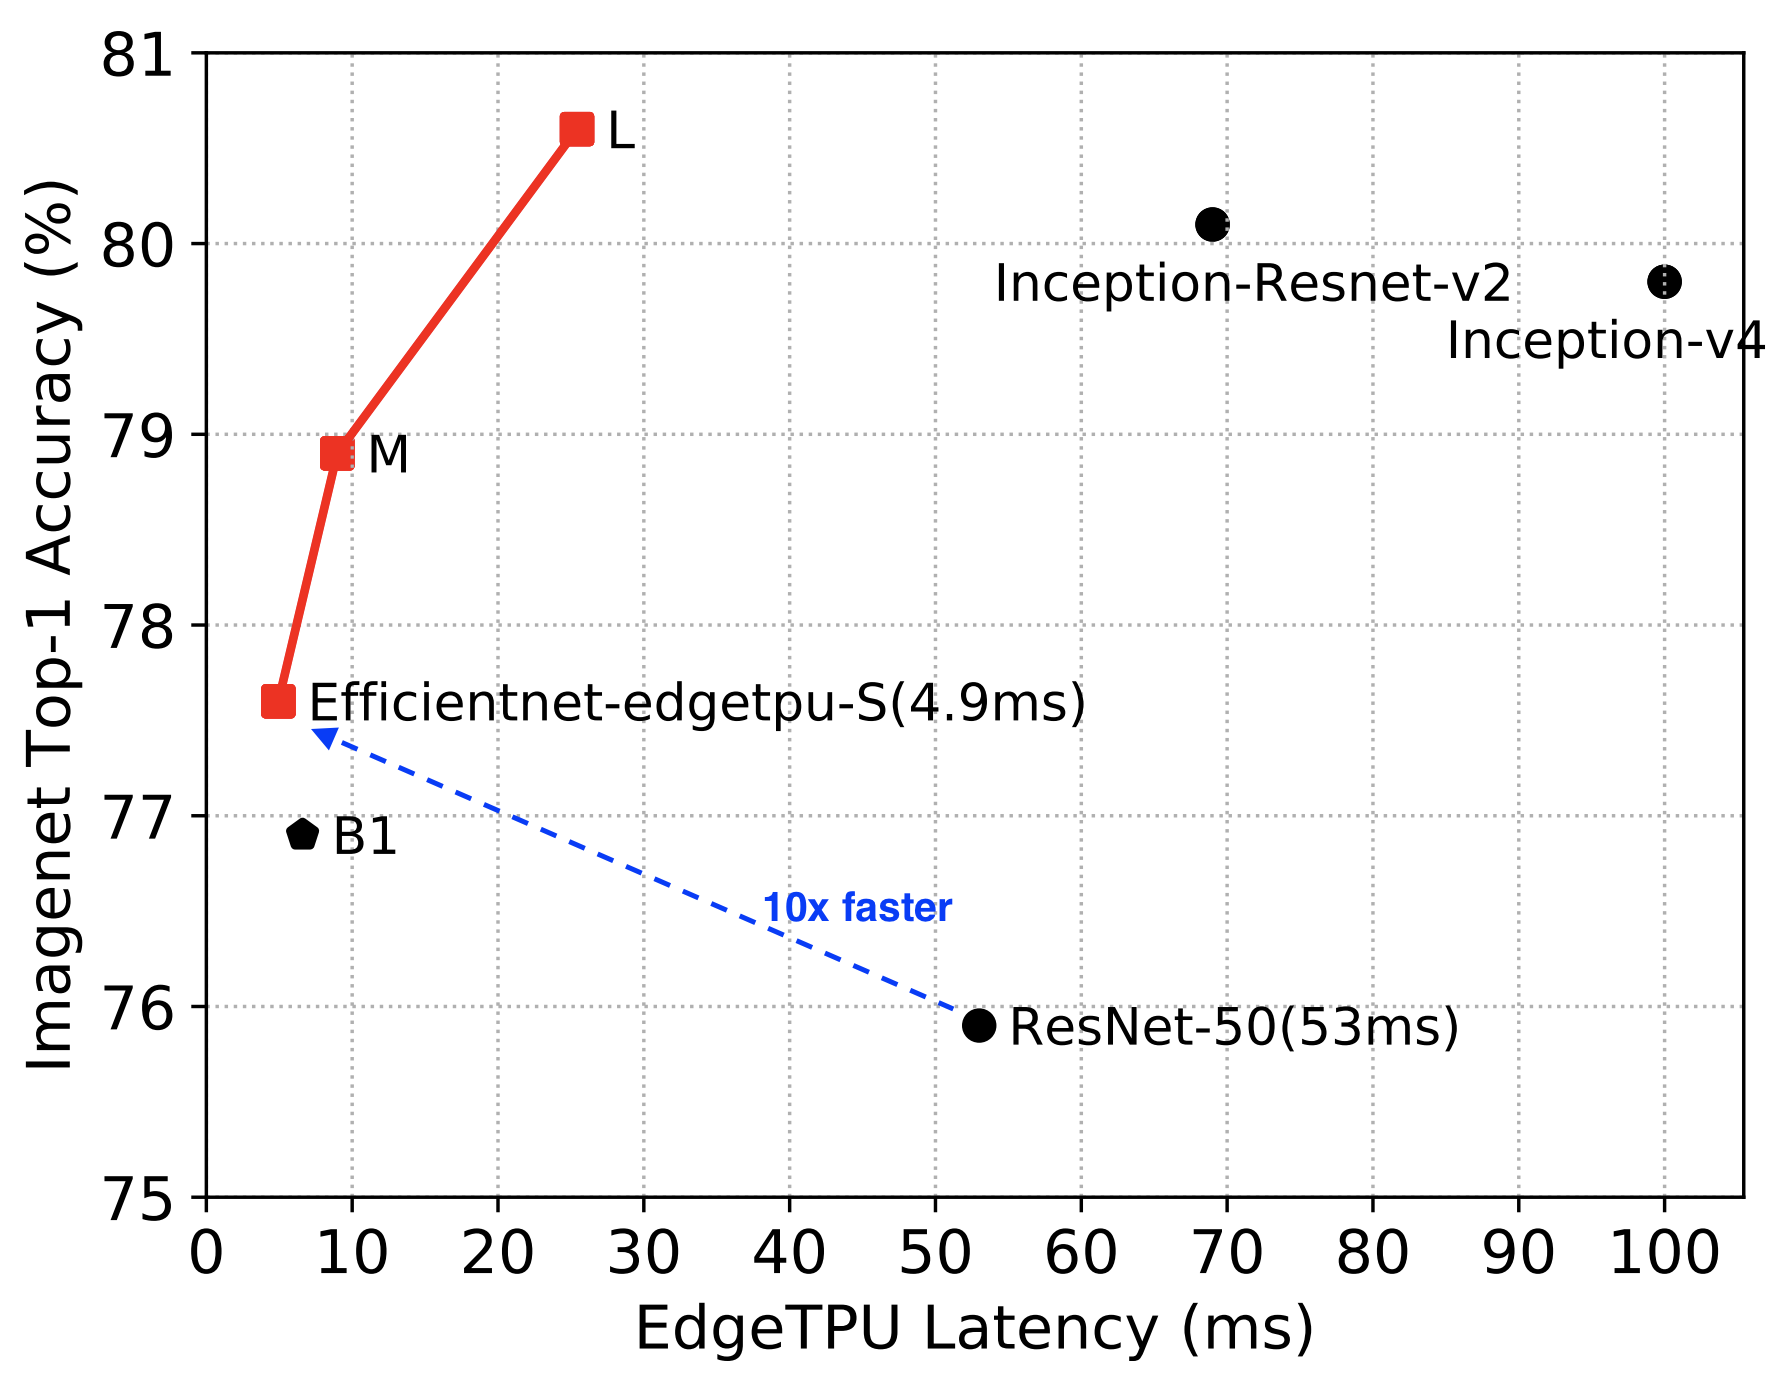
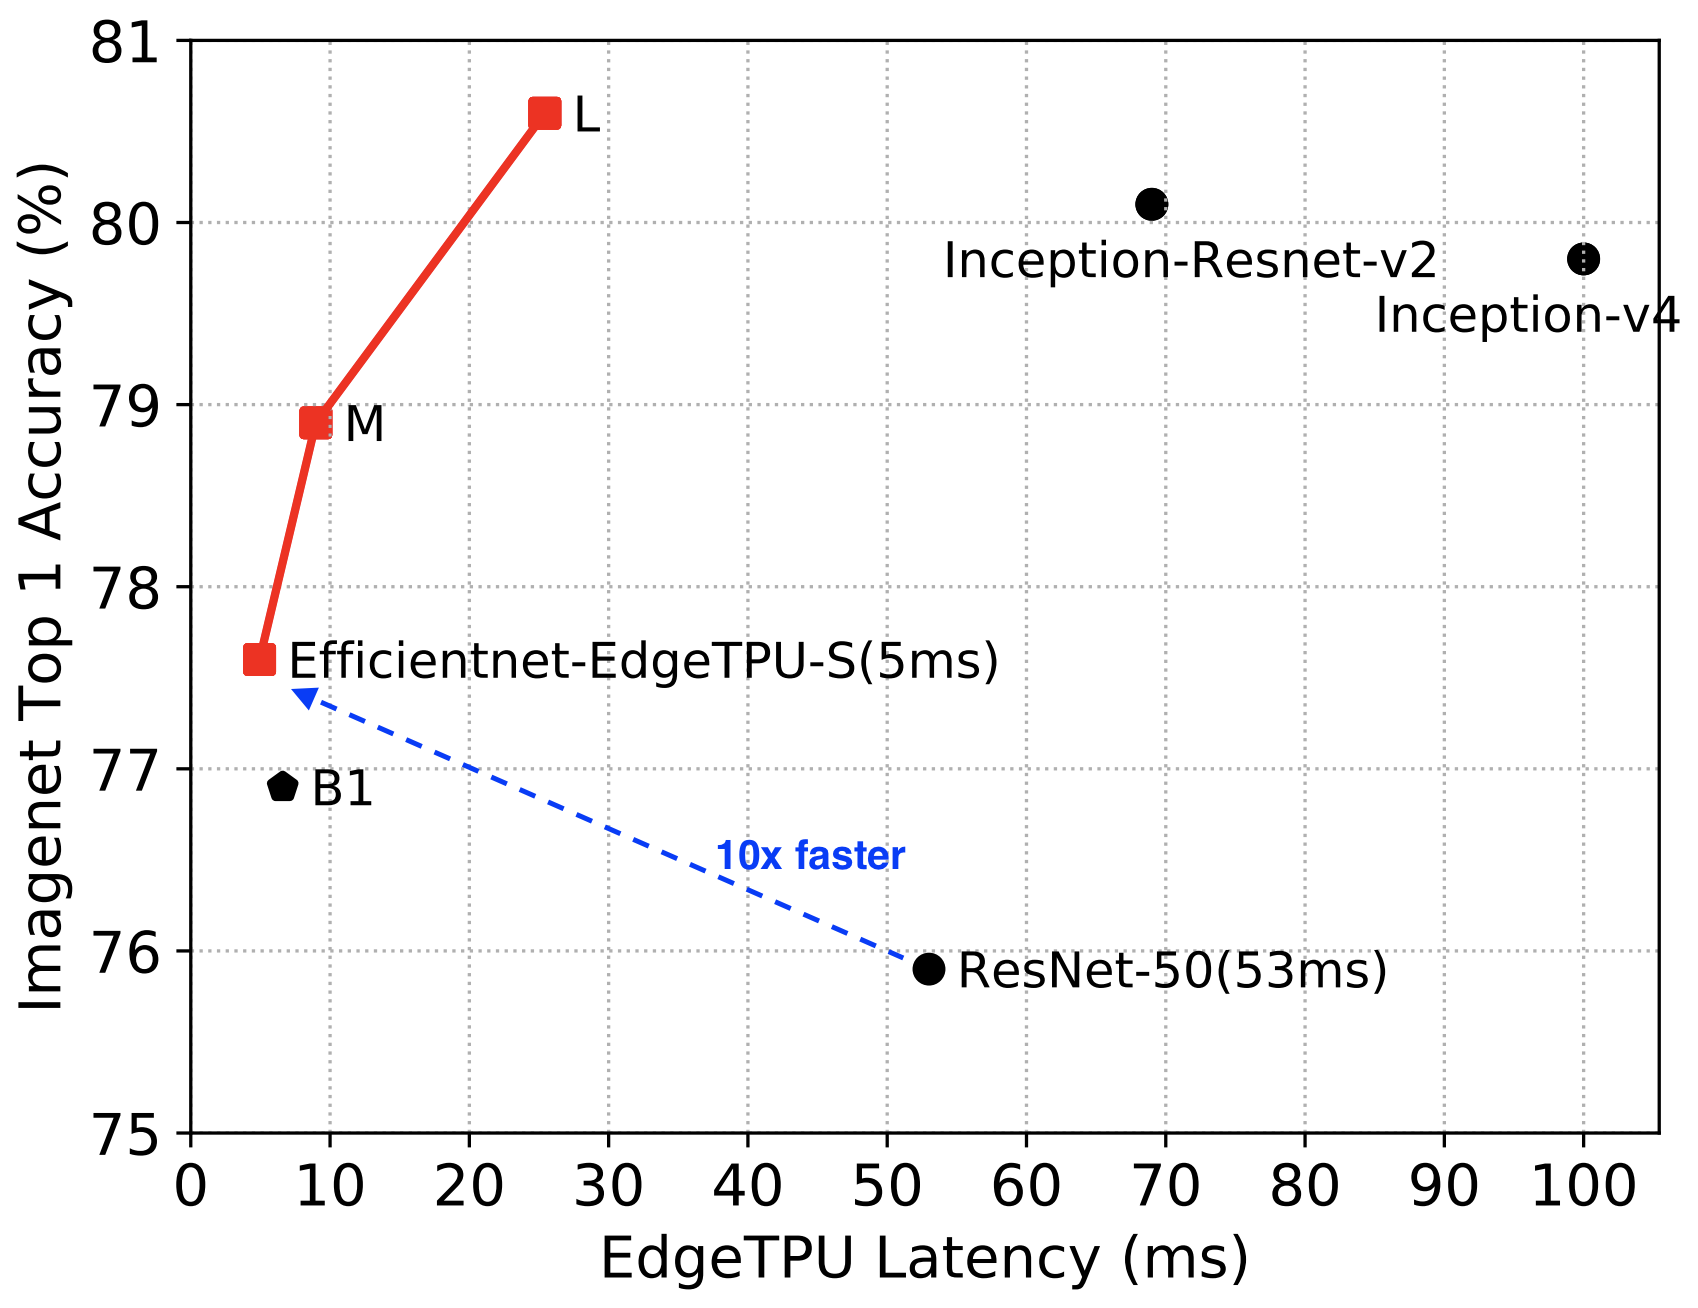
Fix Efficientnet-EdgeTPU naming and figure issues.
PiperOrigin-RevId: 259543399

diff --git a/models/official/efficientnet/edgetpu/efficientnet_edgetpu_builder.py b/models/official/efficientnet/edgetpu/efficientnet_edgetpu_builder.py
@@ -12,7 +12,7 @@
 # See the License for the specific language governing permissions and
 # limitations under the License.
 # ==============================================================================
-"""Model Builder for Efficientnet-edgetpu."""
+"""Builder for Efficientnet-EdgeTPU models."""
 
 from __future__ import absolute_import
 from __future__ import division

diff --git a/models/official/efficientnet/edgetpu/README.md b/models/official/efficientnet/edgetpu/README.md
@@ -1,13 +1,13 @@
-# EfficientNets for EdgeTpu
+# Efficientnet-EdgeTPU
 
-Efficientnet-EdgeTPU are a family of image classification neural network models customized for deployment on [Google Edge TPU](https://coral.withgoogle.com/). These networks are closely related to [Efficientnets] (https://arxiv.org/abs/1905.11946)
+Efficientnet-EdgeTPU are a family of image classification neural network models customized for deployment on [Google Edge TPU](https://coral.withgoogle.com/). These networks are closely related to [Efficientnets] (https://arxiv.org/abs/1905.11946).
 
 Efficientnet-EdgeTPU were developed using the [AutoML MNAS framework](https://ai.googleblog.com/2018/08/mnasnet-towards-automating-design-of.html) by augmenting the neural network search space with building blocks tuned to execute efficiently on the EdgeTPU neural network accelerator architecture. The neural architecture search was incentivized to discover models that achieve low parameter footprint and low latency on EdgeTpu, while simultaneously achieving high classification accuracy. This neural architecture search produced a baseline model: edgetpunet-S, which is subsequently scaled up using EfficientNet's compound scaling method to produce the M and L models.
 
-<table border="0">
+<table border="0" width="70%">
 <tr>
     <td>
-    <img src="../g3doc/efficientnet-edgetpu.png" width="100%" />
+    <img src="../g3doc/efficientnet-edgetpu.png"/>
     </td>
 </tr>
 </table>
@@ -23,7 +23,7 @@ A quick way to use these checkpoints is to run:
 
 ```shell
 $ export MODEL=efficientnet-edgetpu-S
-$ wget https://storage.googleapis.com/cloud-tpu-checkpoints/efficientnet/edgetpunets/${MODEL}.tar.gz
+$ wget https://storage.googleapis.com/cloud-tpu-checkpoints/efficientnet/${MODEL}.tar.gz
 $ tar zxf ${MODEL}.tar.gz
 $ wget https://upload.wikimedia.org/wikipedia/commons/f/fe/Giant_Panda_in_Beijing_Zoo_1.JPG -O panda.jpg
 $ wget https://storage.googleapis.com/cloud-tpu-checkpoints/efficientnet/eval_data/labels_map.txt
@@ -42,7 +42,7 @@ We provide a tool that invokes the post-training quantization tool to produce qu
 
 ```shell
 $ export MODEL=efficientnet-edgetpu-S
-$ wget https://storage.googleapis.com/cloud-tpu-checkpoints/efficientnet/edgetpunets/${MODEL}.tar.gz
+$ wget https://storage.googleapis.com/cloud-tpu-checkpoints/efficientnet/${MODEL}.tar.gz
 $ tar zxf ${MODEL}.tar.gz
 $ python export_model.py --model_name=$MODEL --ckpt_dir=$MODEL --data_dir=/path/to/representative_dataset/ --output_tflite=${MODEL}_quant.tflite
 ```
